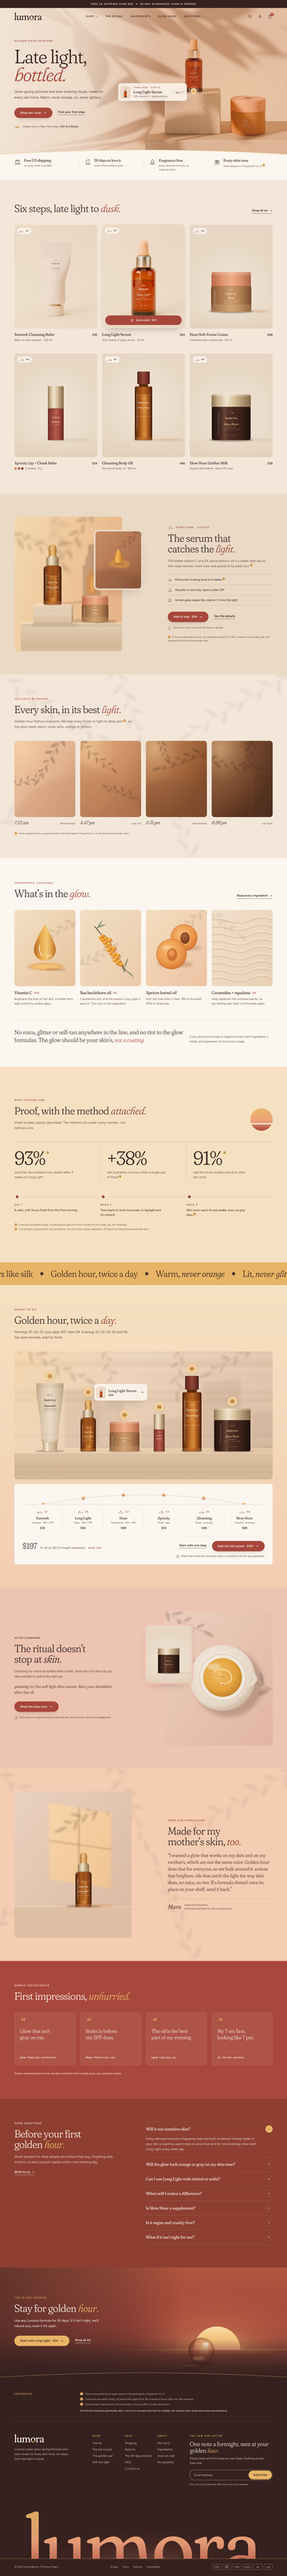
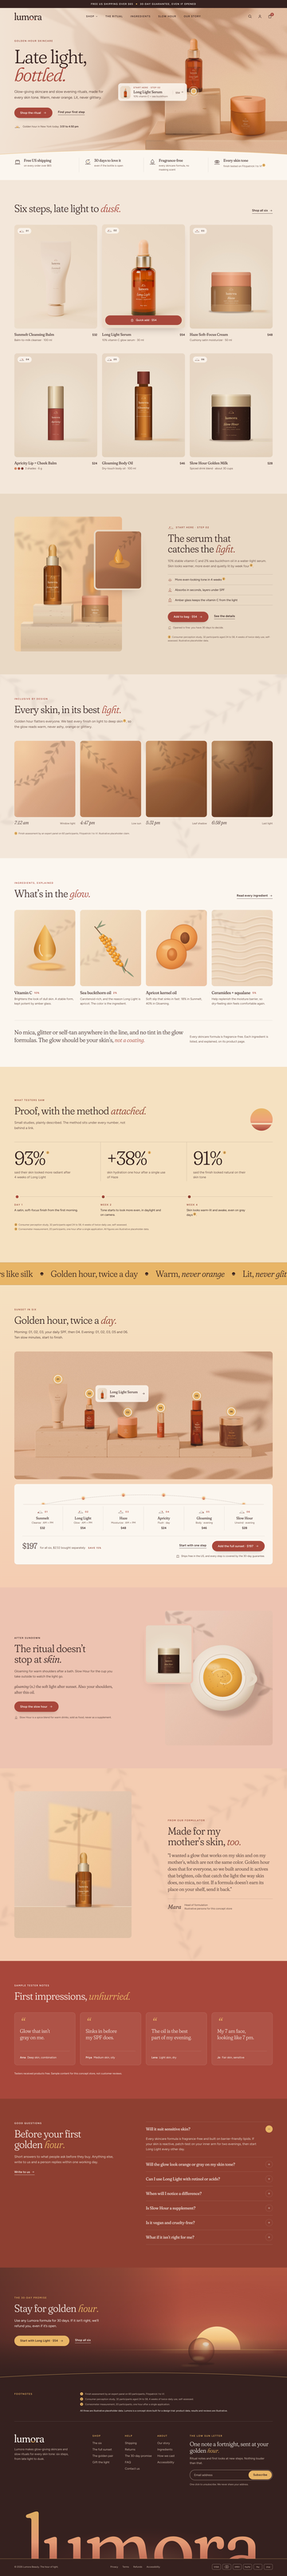
Lumora Beauty: mockup, render and build-kit progress
Claude-Session: https://claude.ai/code/session_01XAYwieyGFLr6j8FMD4pmSJ

Changed region(s): [[0.0306, 0.527, 0.9472, 0.589]]

diff --git a/lumora-beauty/mockup/index.html b/lumora-beauty/mockup/index.html
@@ -325,17 +325,17 @@
       </div>
     </header>
     <div class="ritual__scene">
-      <img class="ph ph--ritual" src="../renders/scenes/ritual.jpg" alt="All six Lumora products in order on a long travertine ledge, low sun raking from the left and long shadows to the right" style="--pos: 50% 50%; --pos-m: 36% 50%">
-      <span class="pin pin--d" style="--x: 13.75%; --y: 19.5%">01</span>
-      <span class="pin pin--d" style="--x: 28.6%; --y: 32%">02</span>
-      <span class="pin pin--d" style="--x: 42.65%; --y: 49.8%">03</span>
-      <span class="pin pin--d" style="--x: 56.1%; --y: 43.5%">04</span>
-      <span class="pin pin--d" style="--x: 68.75%; --y: 13.6%">05</span>
-      <span class="pin pin--d" style="--x: 84.4%; --y: 39.2%">06</span>
-      <span class="pin pin--m" style="--x: 19.5%; --y: 34%">02</span>
-      <span class="pin pin--m" style="--x: 50.8%; --y: 50%">03</span>
-      <span class="pin pin--m" style="--x: 80.6%; --y: 44%">04</span>
-      <a class="popover" href="#long-light" style="--x: 28.6%; --y: 32%">
+      <img class="ph ph--ritual" src="../renders/scenes/ritual.jpg" alt="All six Lumora products in order on a long travertine ledge, low sun raking from the left and long shadows to the right" style="--pos: 50% 54%; --pos-m: 33.9% 50%">
+      <span class="pin pin--d" style="--x: 16.9%; --y: 21.8%">01</span>
+      <span class="pin pin--d" style="--x: 29.1%; --y: 33%">02</span>
+      <span class="pin pin--d" style="--x: 43.9%; --y: 47.7%">03</span>
+      <span class="pin pin--d" style="--x: 56.6%; --y: 44.2%">04</span>
+      <span class="pin pin--d" style="--x: 70.6%; --y: 34.8%">05</span>
+      <span class="pin pin--d" style="--x: 84%; --y: 47.1%">06</span>
+      <span class="pin pin--m" style="--x: 14.9%; --y: 31%">02</span>
+      <span class="pin pin--m" style="--x: 53.7%; --y: 46.2%">03</span>
+      <span class="pin pin--m" style="--x: 87%; --y: 42.6%">04</span>
+      <a class="popover" href="#long-light" style="--x: 29.1%; --y: 33%">
         <span class="hotspot__thumb media"><img class="ph ph--pk-long-light" src="../products/long-light-serum/long-light-serum-packshot.jpg" alt="" style="--pos: 50% 40%"></span>
         <span><strong>Long Light Serum</strong><span class="tnum">$54</span></span>
         <svg class="icon"><use href="#i-arrow"/></svg>

diff --git a/lumora-beauty/mockup/css/lumora.css b/lumora-beauty/mockup/css/lumora.css
@@ -607,7 +607,7 @@ p, li, figcaption { text-wrap: pretty; }
   .marquee__track .sundot { width: 14px; height: 14px; }
 
   .ritual__scene { aspect-ratio: 4 / 5; }
-  .ritual__scene > img { object-position: var(--pos-m, 36% 50%); }
+  .ritual__scene > img { object-position: var(--pos-m, 34% 50%); transform: scale(1.4); transform-origin: 50% 53.5%; }
   .pin--d, .popover { display: none; }
   .pin--m { display: grid; }
   .bundle { margin-top: 16px; padding: 24px 20px 24px; }

diff --git a/lumora-beauty/mockup/SECTIONS.md b/lumora-beauty/mockup/SECTIONS.md
@@ -4,7 +4,7 @@ Golden Hour direction (`brand/concepts/golden-hour.md`). Static HTML/CSS that mi
 section at a time. Open `index.html` in a browser, or see `exports/homepage-desktop.png` (1440 at 2x) and
 `exports/homepage-mobile.png` (390 at 2x).
 
-Asset status below was computed on 23 Nov 2026, 11:38: **3 final, 20 placeholder.**
+Asset status below was computed on 23 Nov 2026, 11:40: **4 final, 19 placeholder.**
 
 ## Files
 
@@ -58,7 +58,7 @@ Schemes follow the sunset ladder (golden-hour.md 2.2). No two neighbours share a
 | 7 | What's in the glow | Custom content (`custom-content`): 4 image + text blocks and a rich-text row | linen | View all "Read every ingredient"; mobile rail (70% cards). | Percentage tag after each name; statement row in Fraunces 30 px with the "not a coating" accent. | `photos/graded/oil-drops.jpg`, `sea-buckthorn.jpg`, `apricot.jpg`, `cream-swirl.jpg`, 4:5 |
 | 8 | Proof, with the method | Custom Liquid (`custom-liquid`) | honey-wash | Three stats (Fraunces 96 px), Day 1 / Week 2 / Week 4 timeline, footnotes 2 and 3 directly beneath, labelled illustrative placeholder data. | Whole section is Custom Liquid (about 3 KB). Sun-dot footnote markers. | `brand/logo/lumora-sun-mark.svg` |
 | 9 | Sensory marquee | Scrolling promotion (`scrolling-promotion`) | honey | Announcement blocks, sun-dot icon separators, slow speed, pause on hover, static under reduced motion. | Fraunces 300 at 44 px (28 px mobile), italic "never" phrases. | Sun dot SVG (one-colour monogram, gap widened to 10% for small sizes) |
-| 10 | The ritual: sunset in six | Product bundles (`product-bundles`) | apricot-wash (scheme gradient from honey wash) | Image with 6 numbered hotspots (pins float above each product), product list, running total ($197 for all six, $232 separately, save 15%), add-all button "Add the full sunset · $197", link "Start with one step". One popover open (02). Mobile: 4:5 crop on 02 to 04 with three pins, list stays visible. | CSS (about 400 characters): image above, list as 6 centred columns. Custom Liquid block: the sun-arc timeline (dashed arc, sun dots rising from 01 and setting at 06). **Pin x/y must be re-tuned to the final render.** | `renders/scenes/ritual.jpg` 2400 x 1350 |
+| 10 | The ritual: sunset in six | Product bundles (`product-bundles`) | apricot-wash (scheme gradient from honey wash) | Image with 6 numbered hotspots (pins float above each product), product list, running total ($197 for all six, $232 separately, save 15%), add-all button "Add the full sunset · $197", link "Start with one step". One popover open (02). Mobile: 4:5 crop on 02 to 04 with three pins, list stays visible. | CSS (about 400 characters): image above, list as 6 centred columns. Custom Liquid block: the sun-arc timeline (dashed arc, sun dots rising from 01 and setting at 06). Pins tuned to the final render (they float above each product, so labels stay readable). | `renders/scenes/ritual.jpg` 2400 x 1350 |
 | 11 | The slow hour | Image with text (`image-with-text`), image right, layered second image | rose-wash | Eyebrow, H2 (Dusk italic accent: Clay fails on rose), text, lexicon line, button "Shop the slow hour", food-not-supplement note. | Lexicon line in Fraunces 20 px. | `photos/graded/golden-milk-hands.jpg`; inset `products/slow-hour-golden-milk/slow-hour-golden-milk-packshot.jpg` |
 | 12 | A note from our formulator | Image with text (`image-with-text`), image left | apricot-wash + leaf light | Eyebrow, H2, note in Fraunces 24 px, signature "Mara, head of formulation", labelled illustrative persona. | Leaf-light overlay (texture 2 of 2); note and signature styles. | `photos/graded/formulator-hands.jpg` (anonymous hands, no face) |
 | 13 | Early voices | Testimonials (`testimonials`), boxed cards | terracotta | 4 per row, mobile swipe (82% cards), no star ratings. Disclosure under the cards: testers received products free, sample content. | Card glass fill (Linen 7%) and hairline; honey quote mark. | None |
@@ -91,7 +91,7 @@ Schemes follow the sunset ladder (golden-hour.md 2.2). No two neighbours share a
 | PLACEHOLDER | `../photos/graded/sea-buckthorn.jpg` | `placeholders/photo-sea-buckthorn.jpg` | 7 Sea buckthorn card | 4:5 |
 | PLACEHOLDER | `../photos/graded/apricot.jpg` | `placeholders/photo-apricot.jpg` | 7 Apricot kernel card | 4:5 |
 | PLACEHOLDER | `../photos/graded/cream-swirl.jpg` | `placeholders/photo-cream.jpg` | 7 Ceramides + squalane card | 4:5 |
-| PLACEHOLDER | `../renders/scenes/ritual.jpg` | `placeholders/ritual.jpg` | 10 Ritual hotspot scene | 2400 x 1350, 16:9; desktop box 1296 x 640; mobile 4:5 crop at object-position 36% (steps 02 to 04) |
+| final | `../renders/scenes/ritual.jpg` | none | 10 Ritual hotspot scene | 2400 x 1600 (3:2 as rendered); desktop box 1296 x 640 at object-position 50% 54%; mobile 4:5 at 33.9% plus scale 1.4 (steps 02 to 04) |
 | PLACEHOLDER | `../photos/graded/golden-milk-hands.jpg` | `placeholders/photo-golden-milk.jpg` | 11 Slow hour, main image | 4:5 |
 | PLACEHOLDER | `../photos/graded/formulator-hands.jpg` | `placeholders/photo-formulator.jpg` | 12 Formulator note | 4:5 |
 | PLACEHOLDER | `../renders/scenes/closing.jpg` | `placeholders/closing.jpg` | 15 Closing band | 2880 x 1100; cover-cropped to 1440 x 560 at 62% (mobile 390 x 300 at 74%) |
@@ -99,7 +99,7 @@ Schemes follow the sunset ladder (golden-hour.md 2.2). No two neighbours share a
 ## Integration checklist
 
 1. Land the remaining files at the paths above (status PLACEHOLDER), re-run the two exports and look at every slice.
-2. Re-tune the pins to the final renders: hero hotspot (`style="--x: 67.5%; --y: 56%"` on `.hotspot`), the six desktop ritual pins and the three mobile pins (`.pin--d`, `.pin--m`), and the open popover (on pin 02).
+2. Pins are tuned to the final hero and ritual renders that landed during this pass (hero hotspot `--x: 67.5%; --y: 56%`; ritual pins float just above each product). Re-check them only if those renders are re-rendered with a different camera.
 3. Check the crops: hero desktop `--pos`, ritual mobile `--pos-m` (36% keeps steps 02 to 04), closing `--pos` / `--pos-m`.
 4. Hover image: only Long Light has a low-sun render queued (`long-light-serum-in-light.jpg`). The other five cards need theirs before the build, or the hover setting stays off for them.
 5. Delete `css/placeholders.css` and its `<link>` once nothing above reads PLACEHOLDER.
